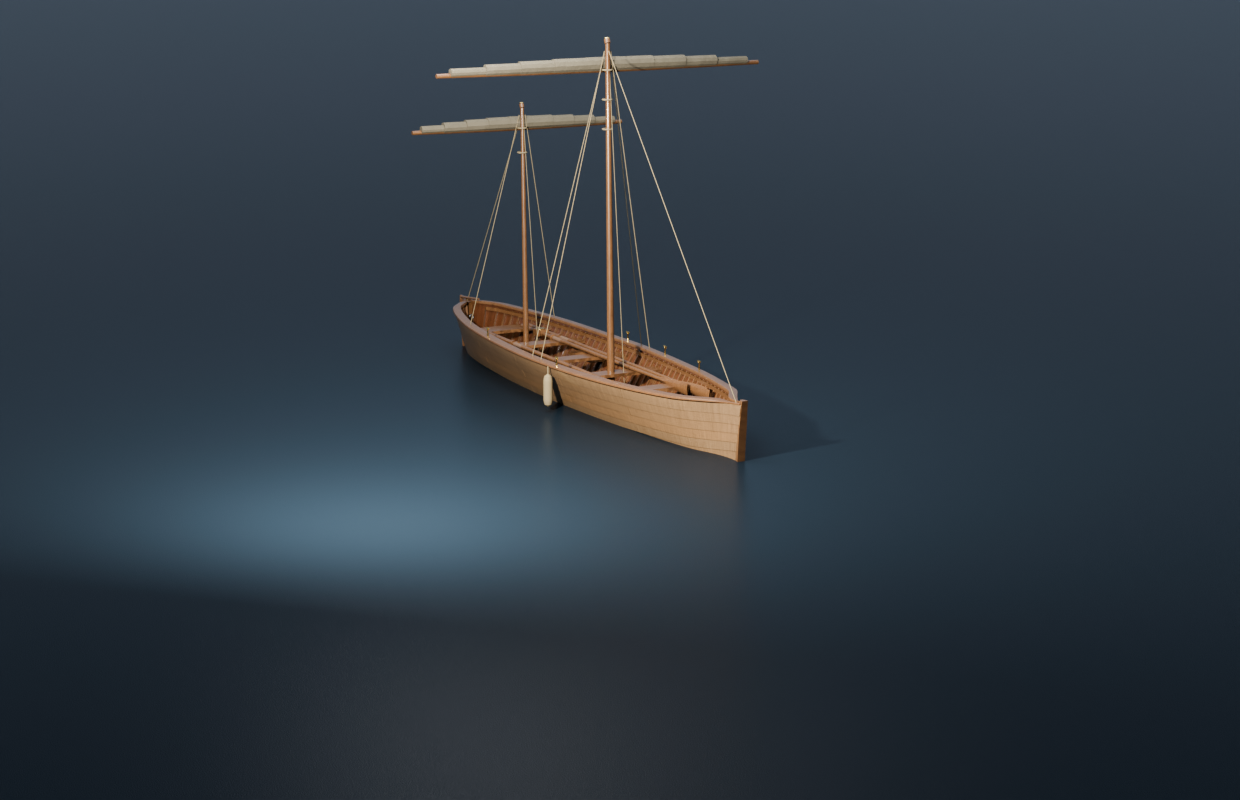
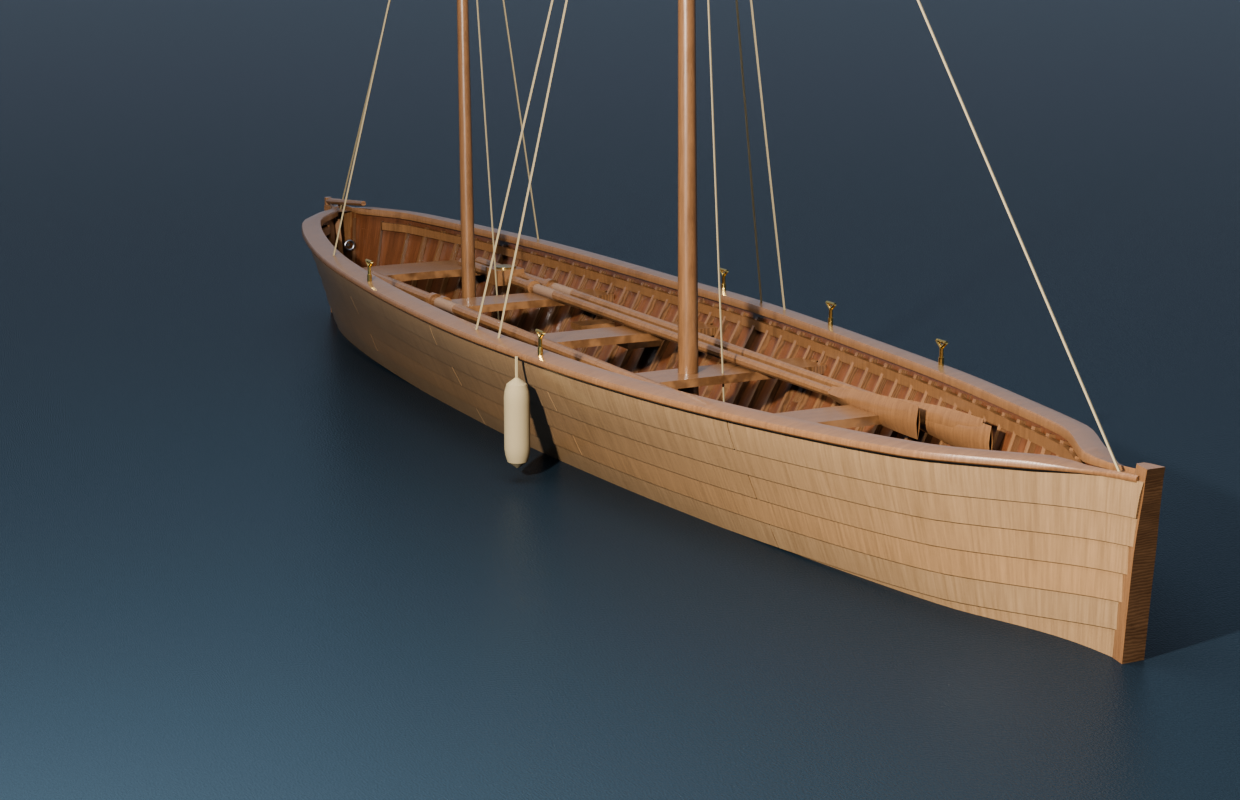
Boats: frame the hull, not the rig, in the long views; centre the silhouette
- frame_camera centres the projected silhouette instead of aiming at the
  waterline (a boat with masts stepped was sitting low in every frame)
- the four long views on the whaler fit the hull and gear and let the masts run
  out of frame; the plan and bow-on views still fit the whole model
- whaler sheet re-rendered at full quality

diff --git a/boats/scripts/boatgen/bl.py b/boats/scripts/boatgen/bl.py
@@ -479,7 +479,7 @@ def scene_bounds(objs=None):
 
 
 def frame_camera(name, direction, look_at=None, lens=70.0, margin=1.16, aspect=1.55,
-                 roll=0.0):
+                 roll=0.0, fit_exclude=()):
     """Place a camera along `direction` from the model centre, far enough back
     that the whole boat sits inside `margin` of the frame.
 
@@ -502,6 +502,11 @@ def frame_camera(name, direction, look_at=None, lens=70.0, margin=1.16, aspect=1
     for o in bpy.context.scene.objects:
         if o.type != "MESH" or o.name in {"Backdrop", "Water", "Sea"} or o.hide_render:
             continue
+        if o.name in fit_exclude:
+            # a boat with her masts stepped: fitting the whole model puts the
+            # hull at a third of the frame.  Cropping the rig is what a
+            # photographer does, so the hull is what is fitted.
+            continue
         mw = o.matrix_world
         for v in o.data.vertices:
             subject.append(mw @ v.co)
@@ -520,6 +525,16 @@ def frame_camera(name, direction, look_at=None, lens=70.0, margin=1.16, aspect=1
         right = mathutils.Vector((1.0, 0.0, 0.0))
     right.normalize()
     up = right.cross(fwd).normalized()
+    # centre the silhouette, not the model origin: a boat with her masts
+    # stepped is a tall thin subject, and aiming at the waterline put two
+    # thirds of the frame below her.  Two passes: measure where the subject
+    # actually lands, then slide the aim point by half the error.
+    if len(subject) >= 16:
+        aa = [ (q - target).dot(right) for q in subject]
+        bb = [ (q - target).dot(up) for q in subject]
+        target = target + right * (0.5 * (min(aa) + max(aa))) \
+                        + up * (0.5 * (min(bb) + max(bb)))
+
     dist = 0.0
     if len(subject) < 16:
         subject = [mathutils.Vector((mx.x if i & 1 else mn.x,

diff --git a/boats/scripts/render_sheet.py b/boats/scripts/render_sheet.py
@@ -37,10 +37,14 @@ BLENDS = {
 
 # direction vectors are from the boat towards the camera
 VIEWS = {
-    "hero": dict(direction=(0.62, -0.72, 0.34), lens=72, look=(0, 0, 0.10)),
-    "broadside": dict(direction=(0.0, -1.0, 0.045), lens=85, look=(0, 0, 0.16)),
-    "bow_quarter": dict(direction=(0.88, -0.46, 0.22), lens=72, look=(0.9, 0, 0.14)),
-    "stern_quarter": dict(direction=(-0.86, -0.50, 0.26), lens=72, look=(-0.9, 0, 0.14)),
+    "hero": dict(direction=(0.62, -0.72, 0.34), lens=72, look=(0, 0, 0.10),
+                 fit_exclude=("Masts_Yards_Rigging",)),
+    "broadside": dict(direction=(0.0, -1.0, 0.045), lens=85, look=(0, 0, 0.16),
+                      fit_exclude=("Masts_Yards_Rigging",)),
+    "bow_quarter": dict(direction=(0.88, -0.46, 0.22), lens=72, look=(0.9, 0, 0.14),
+                        fit_exclude=("Masts_Yards_Rigging",)),
+    "stern_quarter": dict(direction=(-0.86, -0.50, 0.26), lens=72, look=(-0.9, 0, 0.14),
+                          fit_exclude=("Masts_Yards_Rigging",)),
     "from_above": dict(direction=(0.18, -0.36, 1.0), lens=68, look=(0, 0, 0.10)),
     "bow_on": dict(direction=(1.0, -0.16, 0.10), lens=85, look=(1.4, 0, 0.20)),
 }
@@ -82,7 +86,8 @@ def render_boat(key):
         if ONLY and name not in ONLY:
             continue
         cam = bl.frame_camera(f"{key}_{name}", v["direction"], look_at=v["look"],
-                              lens=v["lens"], margin=1.10, aspect=1.55)
+                              lens=v["lens"], margin=1.10, aspect=1.55,
+                              fit_exclude=v.get("fit_exclude", ()))
         bl.render(f"{ROOT}/boats/renders/{key}_{name}.png",
                   cam, res=(720, 465) if QUICK else (1240, 800),
                   samples=16 if QUICK else 88)

diff --git a/boats/docs/REALISM_PASS.md b/boats/docs/REALISM_PASS.md
@@ -326,6 +326,14 @@ model's actual vertices, not its box, and solves the distance against the true
 silhouette. The boats come out roughly a third larger with no risk of clipping,
 because every projected vertex is inside the frustum by construction.
 
+**When to crop the rig.** Fitting the frame to every vertex is honest and, on
+the whaler, wrong: with a 16 ft 6 in mainmast and a 15 ft 3 in yard stepped in a
+27 ft hull, the honest fit put the boat at a third of the frame with two thirds
+of water beneath her. A photographer crops the rig. The four long views now fit
+the hull and gear and let the masts run out of the top of the frame; the plan
+and bow-on views, where the rig is the subject, still fit everything. Same
+arithmetic, different question.
+
 **Small gear that says the boat is used.** A steel slice stowed against the
 boiler and a coil of mooring line flaked on the foredeck of the steam cutter; a
 whale-line tub with the line coiled in it, a wooden water breaker with three
